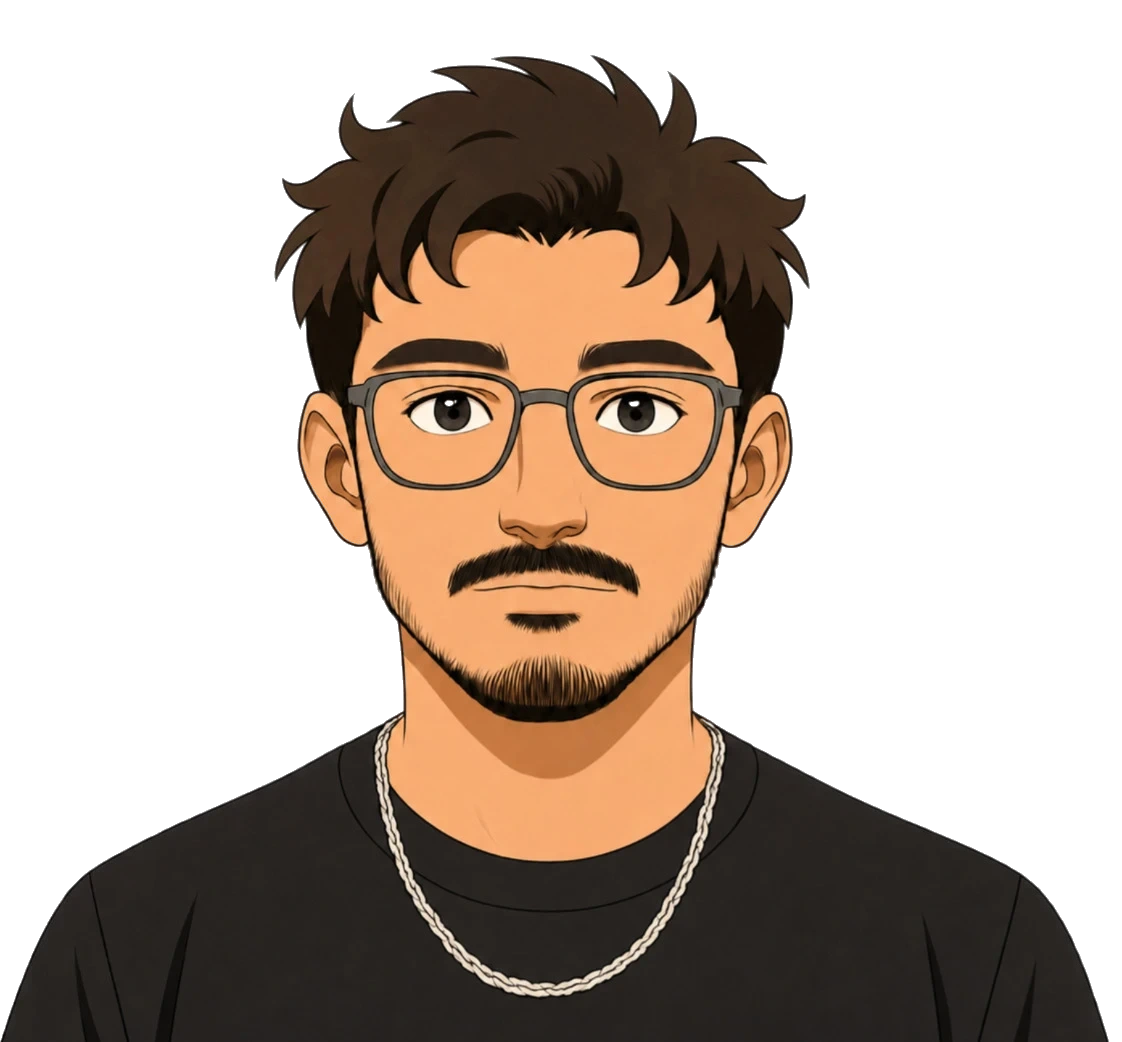
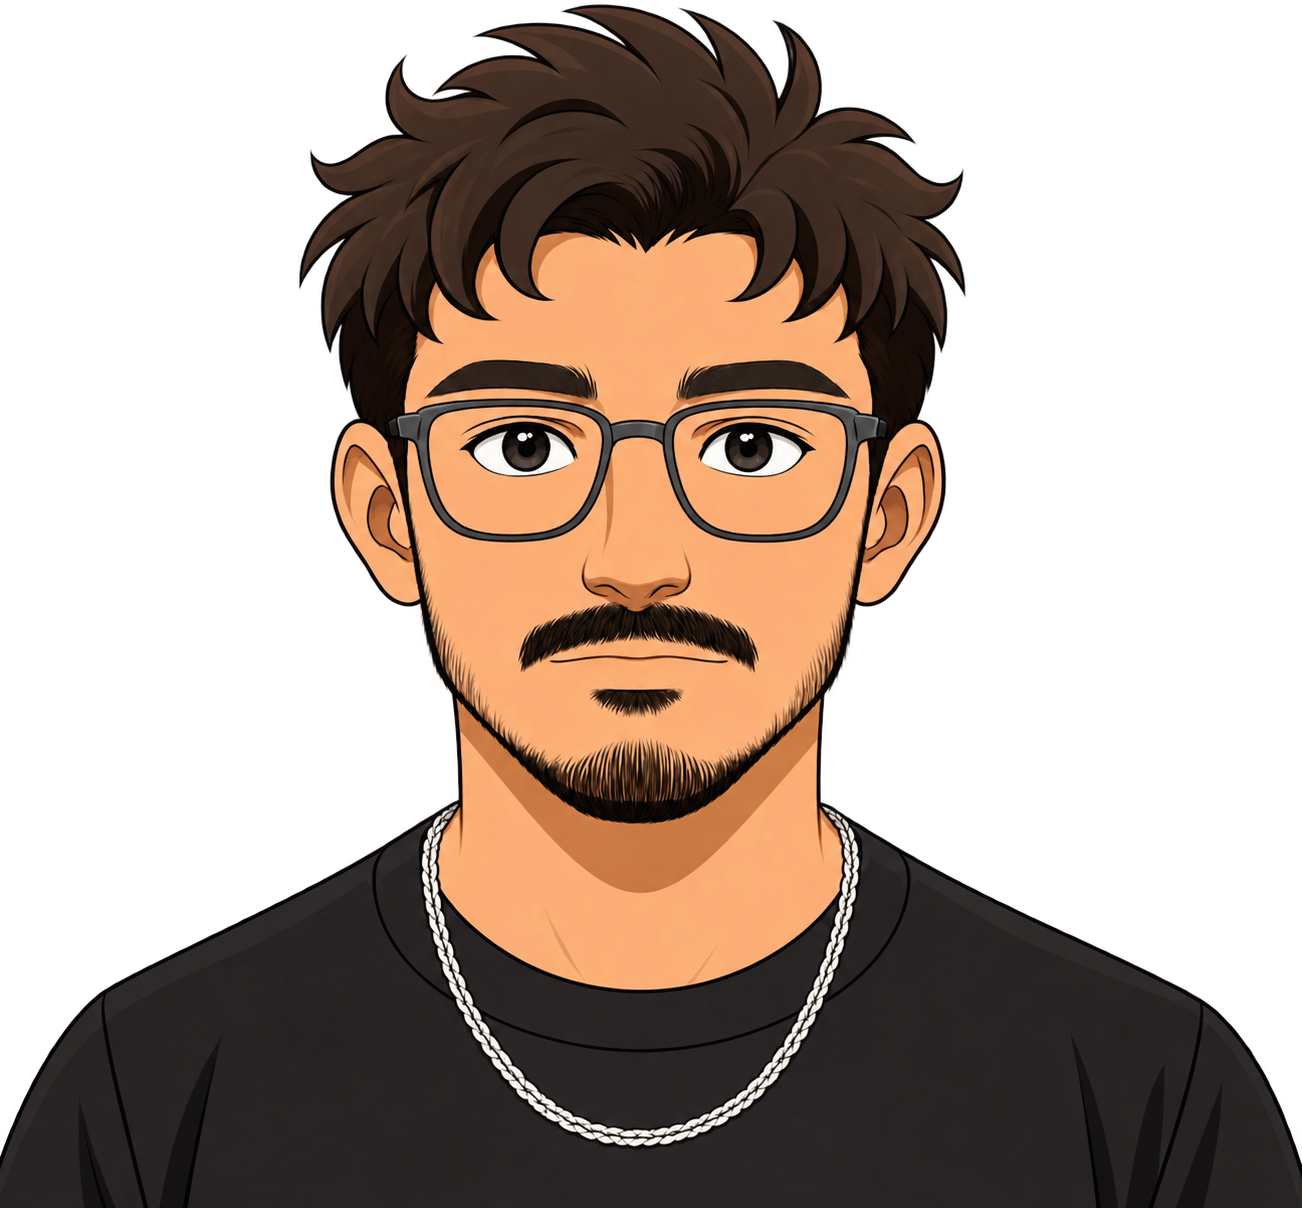
PNG

diff --git a/index.html b/index.html
@@ -146,8 +146,8 @@
           <img
             src="static/img/aditya-cutout.webp"
             alt="Illustrated portrait of Aditya"
-            width="1122"
-            height="1402"
+            width="1024"
+            height="950"
           />
           <span class="scan" aria-hidden="true"></span>
           <figcaption aria-hidden="true"><span>AS — 001</span><span>fig. 01</span></figcaption>
